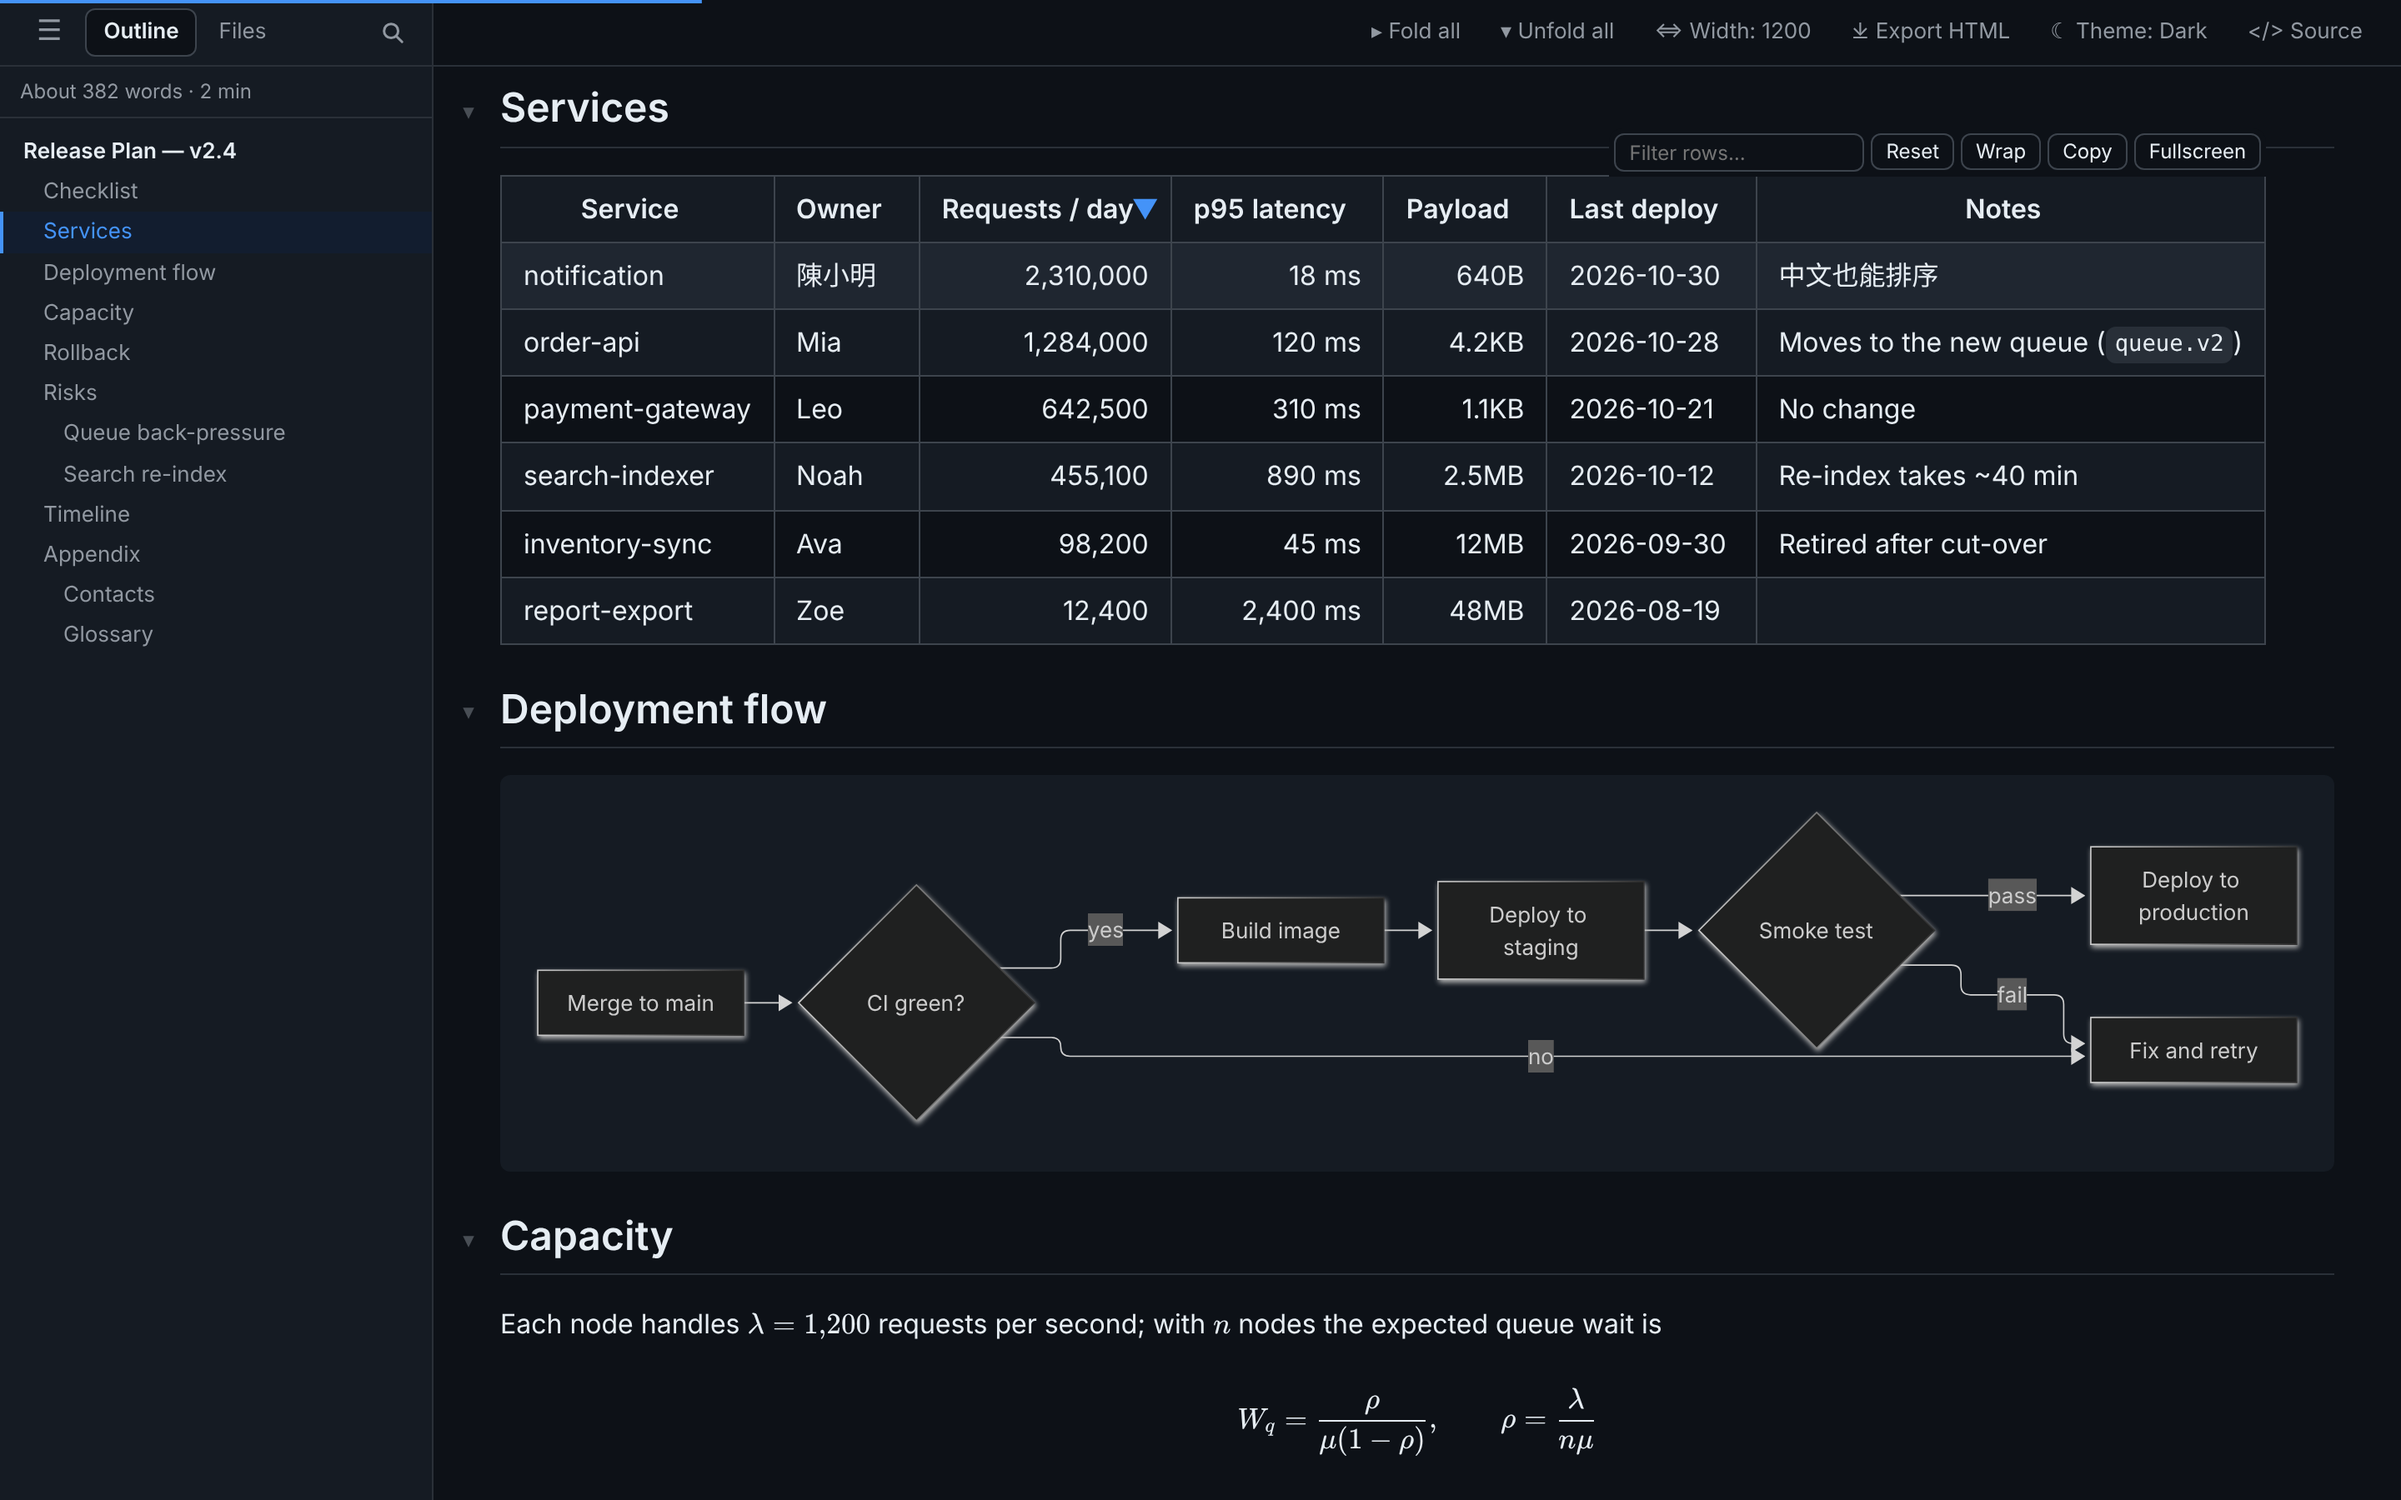
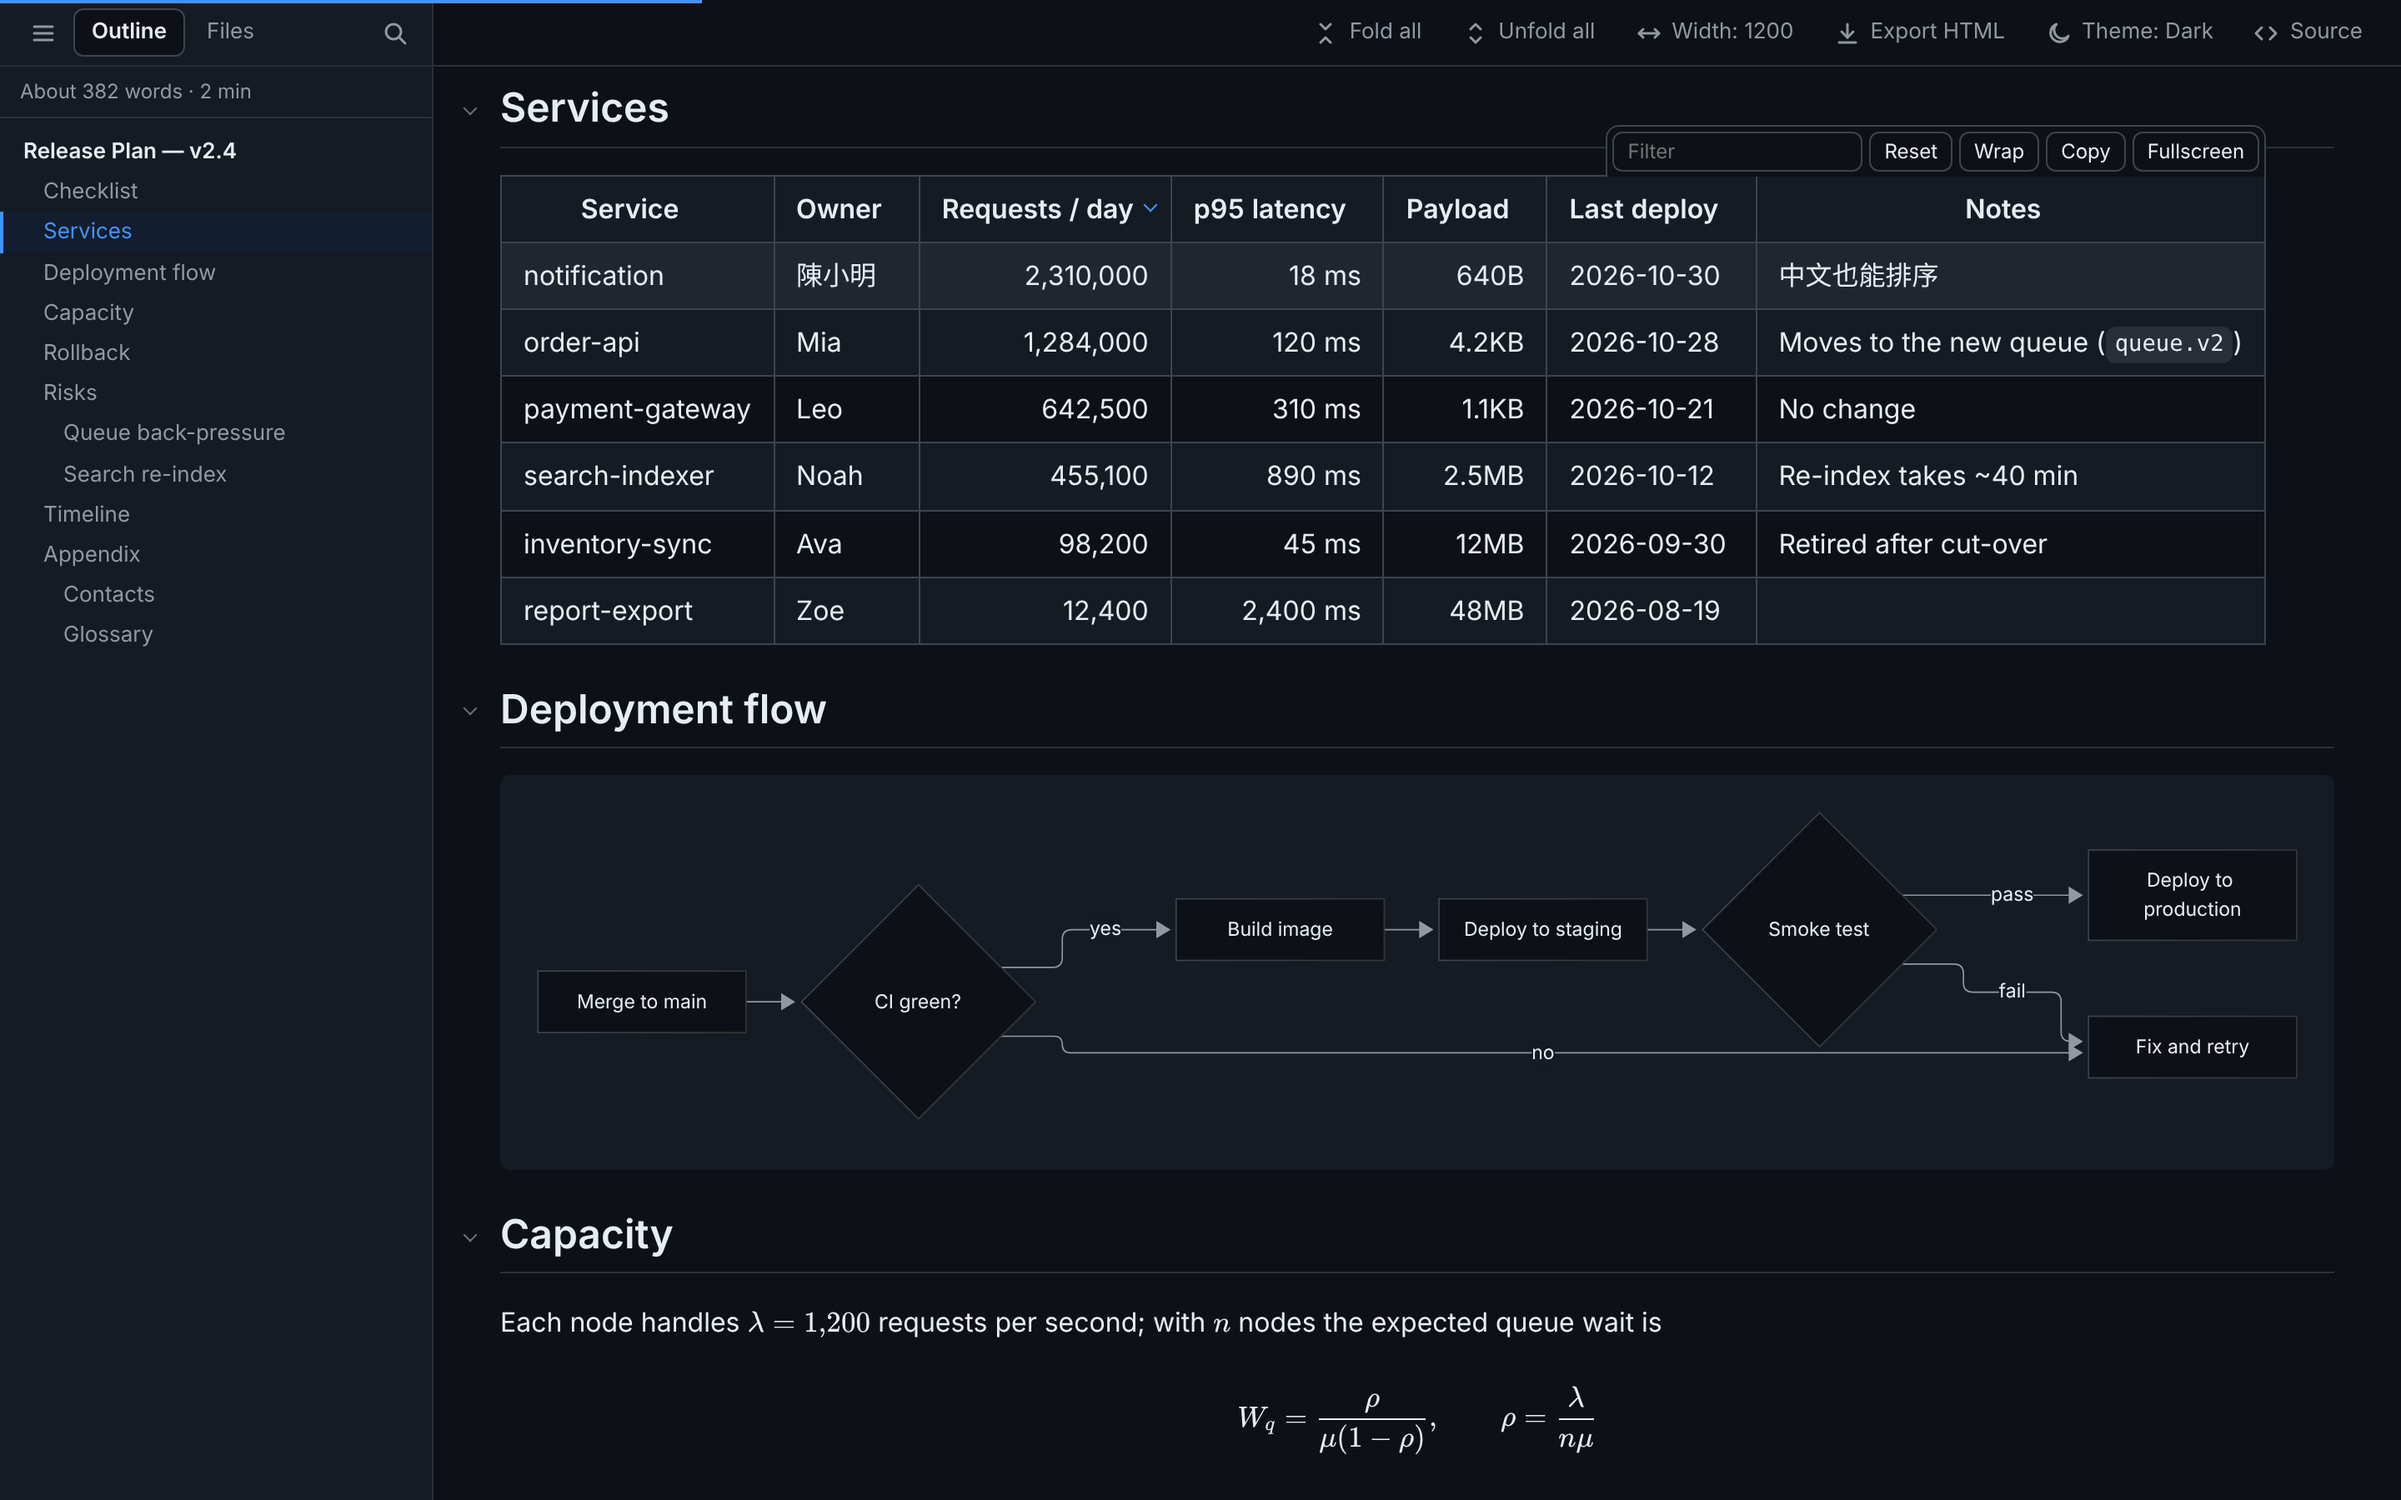
docs: 重新產生 README 截圖，CHANGELOG 補上未發布的介面改善

diff --git a/CHANGELOG.md b/CHANGELOG.md
@@ -5,6 +5,22 @@ The format is based on [Keep a Changelog](https://keepachangelog.com/en/1.1.0/),
 
 ## [Unreleased]
 
+### Added
+- Keyboard support: sort a table by focusing its header and pressing Enter or Space; enlarge an image with Enter, close it with Esc (focus returns to the image); open the folder menu in the Files tab with the context-menu key or Shift+F10
+- Enlarged images have a visible close button
+- Popup: the File list, Editor, Task check-off and Auto refresh sections can be collapsed (collapsed by default; remembered on this computer)
+
+### Changed
+- Toolbar, sidebar and file-tree icons are now one set of line icons instead of text symbols and emoji, so they look the same on every system. On narrow windows the toolbar shows icons only and no longer scrolls sideways
+- Popup, welcome page and folder access page follow MarkLens's theme setting (Auto / Light / Dark) like the reader, and share its colors and fonts
+- Mermaid diagrams use the reader's colors: nodes are cards with thin borders, multi-color charts use the alert colors, and the glow around nodes in dark mode is gone
+- Table toolbar sits on the table like a tab and no longer cuts through the heading's underline
+- Shorter placeholders: "Filter", "Search headings", "Search files"
+
+### Fixed
+- Accessibility: consistent keyboard focus outline; every icon button has a spoken name; controls are at least 24×24 px; the fold toggle has 3:1 contrast and outline items inside folded sections stay readable (4.5:1); the Files tab no longer claims to be a tree it can't be navigated as; notifications pause while hovered or focused; animations are off when the system asks for reduced motion
+- Switching files in the same tab could keep the old page on screen for 1.5 s when the new page was ready very quickly
+
 ## [1.3.0] - 2026-10-31
 
 ### Added
